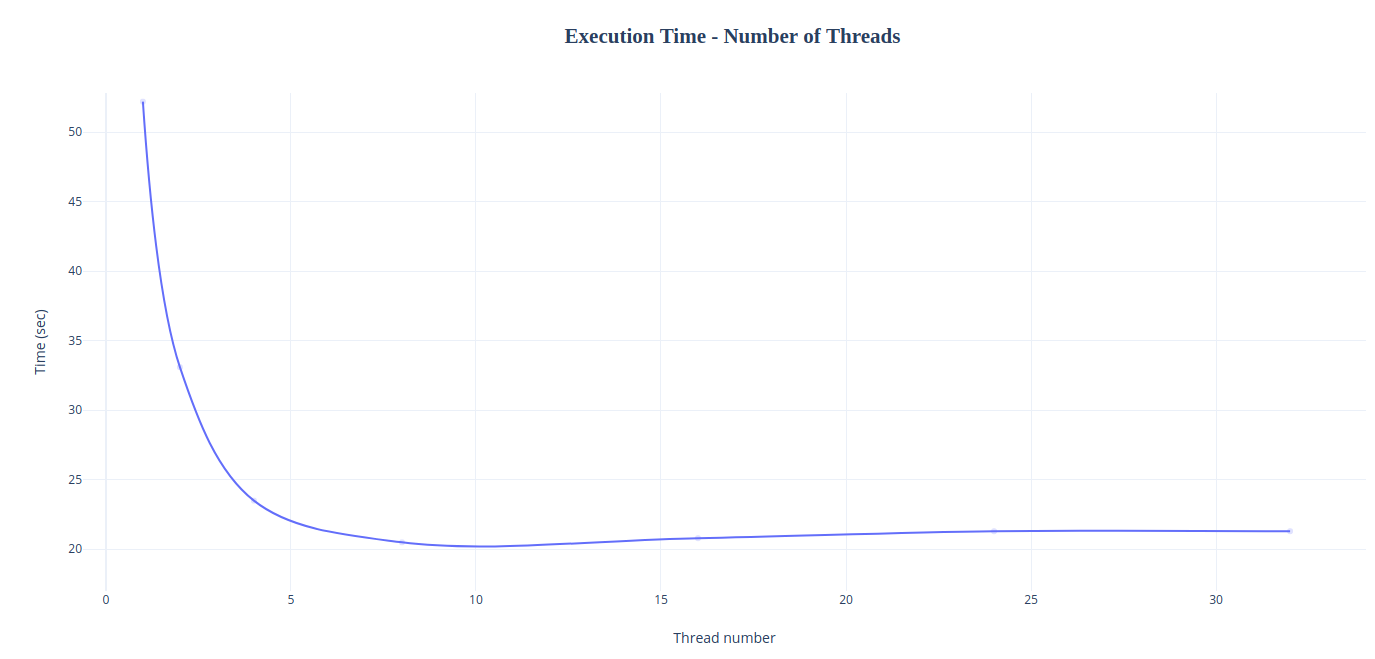
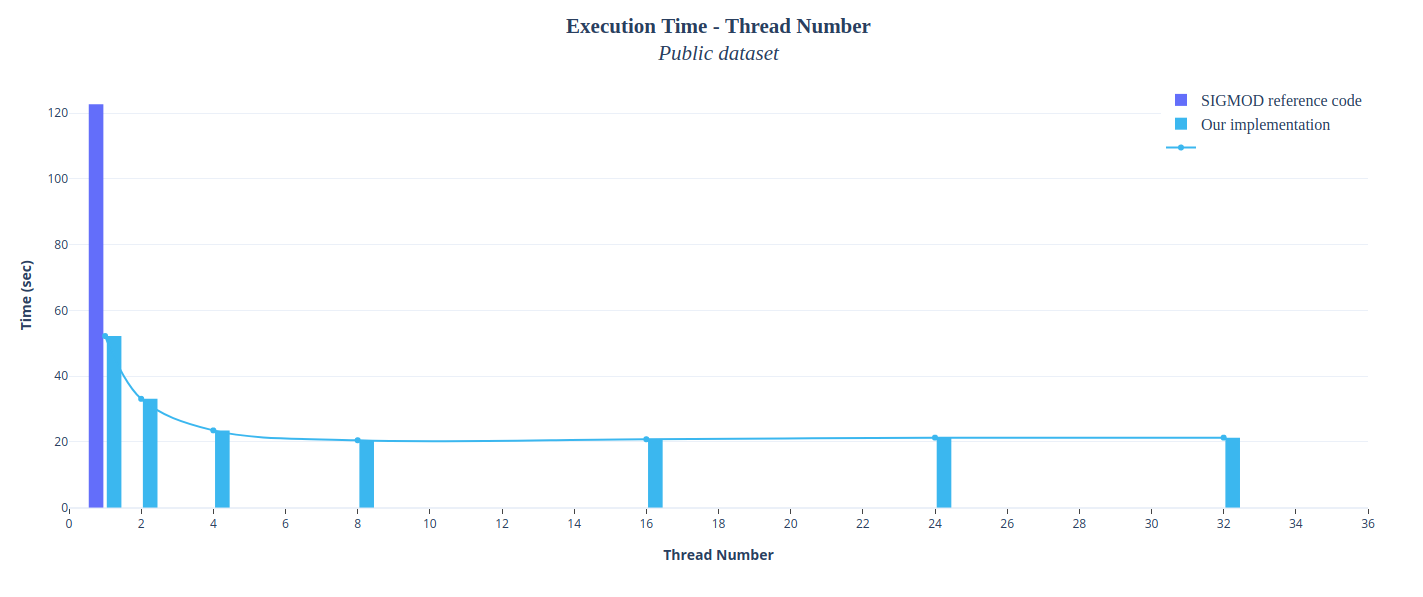
Finished README
- Fixed minor details
- Added graphs and descriptions

diff --git a/final/src/JobScheduler.c b/final/src/JobScheduler.c
@@ -14,7 +14,7 @@
 #include "Operations.h"
 #include "Queue.h"
 
-#define THREAD_NUM 8
+#define THREAD_NUM 4
 
 pthread_mutex_t queueMtx           = PTHREAD_MUTEX_INITIALIZER;
 pthread_mutex_t jobsFinishedMtx    = PTHREAD_MUTEX_INITIALIZER;

diff --git a/final/src/Partition.c b/final/src/Partition.c
@@ -12,8 +12,8 @@
 #include "Utils.h"
 #include "Vector.h"
 
-#define PARALLEL_PARTITION 1
-#define PARALLEL_HISTOGRAM 1
+#define PARALLEL_PARTITION 0
+#define PARALLEL_HISTOGRAM 0
 
 void histFunc(void* arg)
 {

diff --git a/README.md b/README.md
@@ -25,20 +25,24 @@ Additionally, it is worth mentioning that the whole project is based on the [SIG
 
   * **Probe**
 
-    Partitions of the non-indexed, i.e: big, relation are scanned and the respective index is probed for matching tuples.
+    Partitions of the non-indexed relation, i.e: the bigger one, are scanned and the respective index is probed for matching tuples.
 
-    ![image not found](./img/radix_hash_join.png)
+  ![image not found](./img/radix_hash_join.png)
 
-    *Image above illustrates the three phases of Radix Hash Join Algorithm*
+  *Image above illustrates the three phases of Radix Hash Join Algorithm*
 
 
 * #### Multithreading
 
-  We managed to speed up our serial implementation by applying multithreading  on various parts of our code, such as filter execution, histogram creation, indexing on the buckets, probing e.t.c. For this purpose, POSIX Threads were used.
+  We managed to speed up our serial implementation by applying multithreading  on various parts of our code, such as filter execution, histogram creation, bucket indexing, probing e.t.c. We decided to make use of POSIX Threads for this purpose. The following graphs depict the satisfactory speedup we achieved.
+
+  ![image not found](./img/plot2.png)
+
+  The above graph shows the correlation between execution time and number of threads using the [small](./final/workloads/small) dataset. For this test we used a machine from the Linux lab of our department (Intel i5-6500 3.2 GHz, 4 cores, 4 threads | 16 GB RAM )
 
   ![image not found](./img/plot1.png)
 
-  The above graph shows the correlation between execution time and number of threads. We used the *public* dataset which can be downloaded from [here](http://sigmod18contest.db.in.tum.de/public.tar.gz).
+  The above graph shows the correlation between execution time and number of threads using the *public* dataset which can be downloaded from [here](http://sigmod18contest.db.in.tum.de/public.tar.gz).
 
   Our machine's specifications are:
    * CPU: Ryzen 2400G 3.6 GHz , 4 cores , 8 threads
@@ -59,8 +63,7 @@ Additionally, it is worth mentioning that the whole project is based on the [SIG
 
 ## Memory checking
 
-You may run a memory check using valgrind by uncommenting the line you want in *run.sh* script.
-
+You may run a memory check using valgrind by uncommenting the line you wish in [run.sh](./final/run.sh) script.
 
 ## Authors
 
